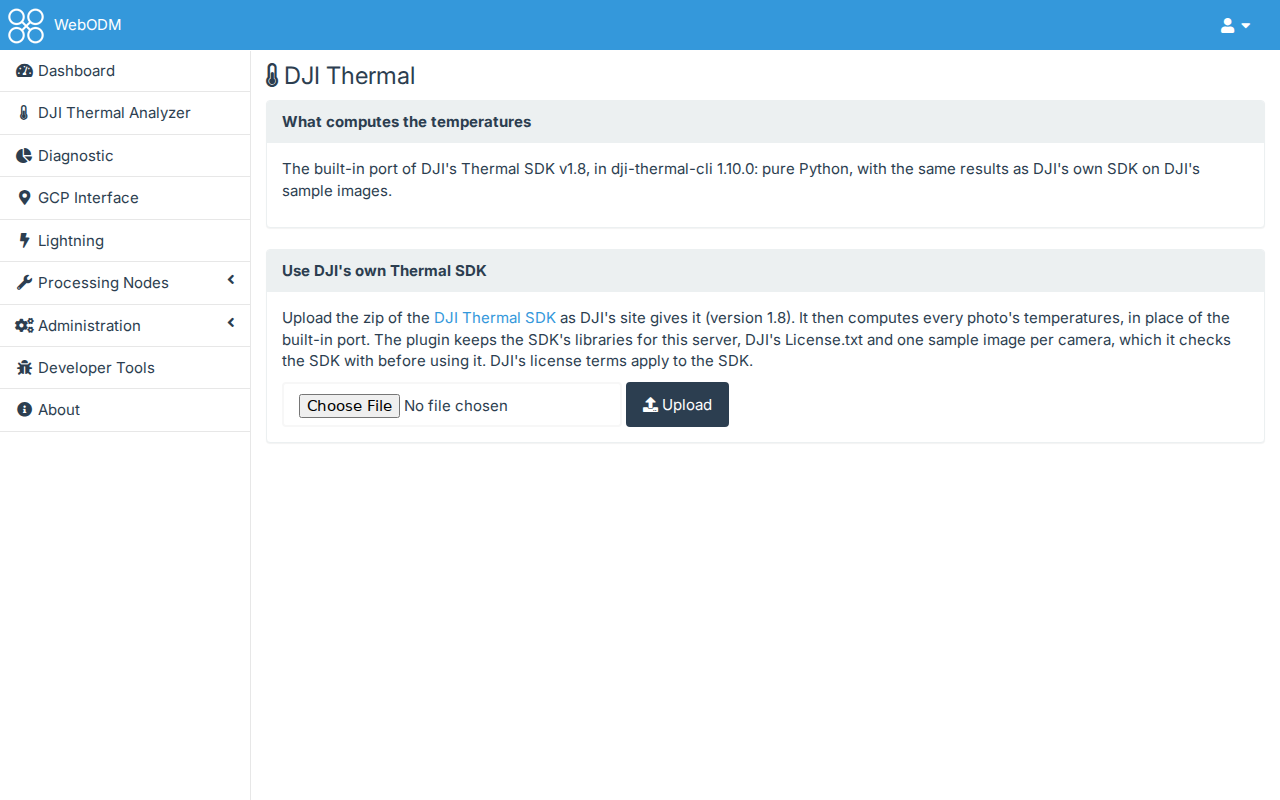
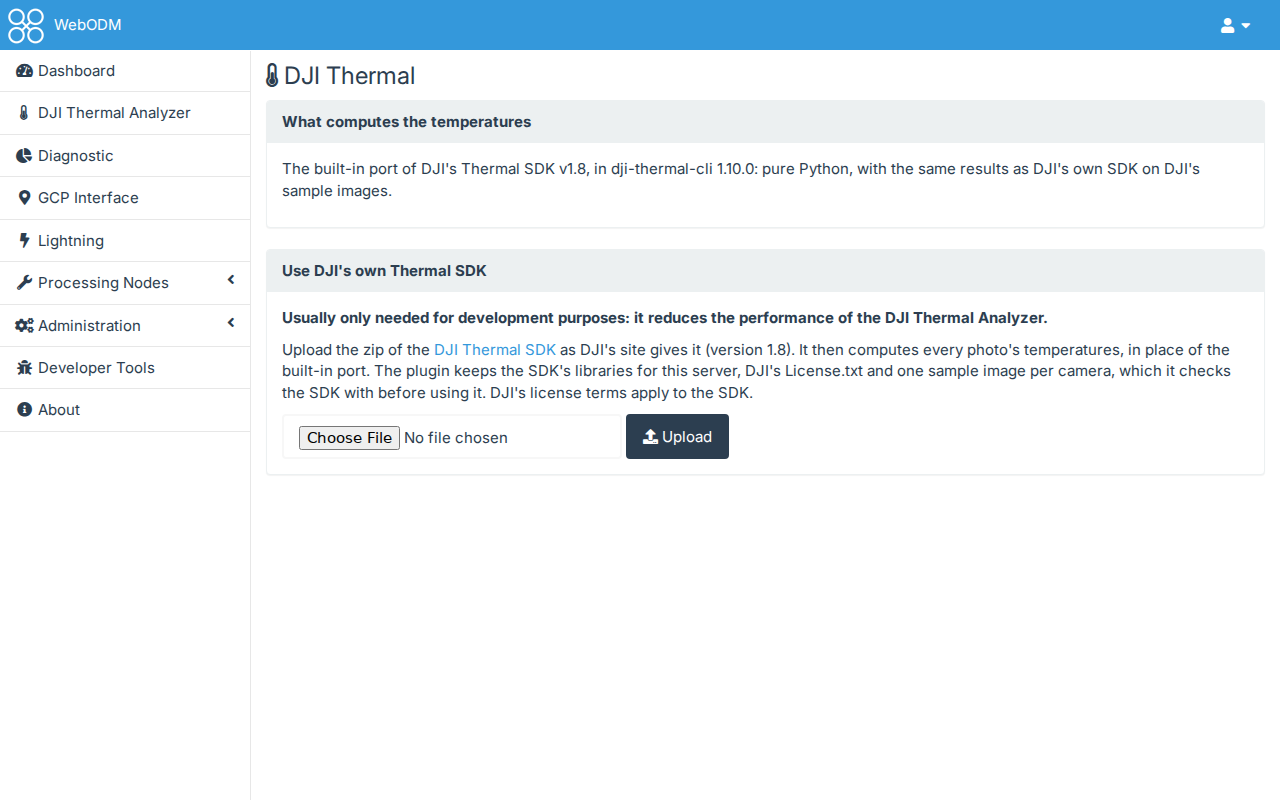
The SDK panel says in bold DJI's own SDK is usually only for development and slows the Analyzer

Changed region(s): [[0.2188, 0.375, 0.9688, 0.5938]]

diff --git a/dji-thermal/templates/sdk.html b/dji-thermal/templates/sdk.html
@@ -30,6 +30,7 @@
 <div class="panel panel-default">
     <div class="panel-heading"><strong>{% if status.folder %}{% trans "Update DJI's Thermal SDK" %}{% else %}{% trans "Use DJI's own Thermal SDK" %}{% endif %}</strong></div>
     <div class="panel-body">
+        <p id="dji-thermal-sdk-note"><strong>{% trans "Usually only needed for development purposes: it reduces the performance of the DJI Thermal Analyzer." %}</strong></p>
         <p>{% blocktrans %}Upload the zip of the <a href="https://www.dji.com/downloads/softwares/dji-thermal-sdk" target="_blank" rel="noopener">DJI Thermal SDK</a> as DJI's site gives it (version 1.8). It then computes every photo's temperatures, in place of the built-in port. The plugin keeps the SDK's libraries for this server, DJI's License.txt and one sample image per camera, which it checks the SDK with before using it. DJI's license terms apply to the SDK.{% endblocktrans %}</p>
         {% if status.deploy_dir %}
         <p>{% blocktrans with folder=status.deploy_dir %}The deployment sets {{ env }}={{ folder }}: the SDK is installed there, replacing the one in it.{% endblocktrans %}</p>

diff --git a/upcoming-changes.md b/upcoming-changes.md
@@ -7,9 +7,9 @@
   Thermal SDK\"; add a note in bold that it's usually only needed for development purposes reduces the performance
   of the DJI Thermal Analyzer." Builds on the DJI Thermal page under Administration (`templates/sdk.html`, the
   "Use DJI's own Thermal SDK" panel, shown before an SDK is installed; titled "Update DJI's Thermal SDK" after).
-  Proposed: one bold sentence at the top of that panel; the speed claim measured first (the same frames through
-  the built-in port and through DJI's SDK, in the dev stack), and worded by what the measurement shows. README and
-  `docs/dji-sdk.md` say the same; its screenshot retaken.
+  Decided (the user, 2026-11-02): their wording as is, not measured first. Done, `sdk-settings-note`: in bold at the
+  top of that panel (shown with an SDK installed too), "Usually only needed for development purposes: it reduces
+  the performance of the DJI Thermal Analyzer." README, `docs/dji-sdk.md`, `dji-sdk.png` retaken.
 - **Workflow walk-through for bugs and hangs** (the user, 2026-11-02, from `new.md`): "walk through the workflows for
   creating datasets, worksets and tasks. Look for bugs and places where it could hang unexpectedly for the user
   etc... Fix anything minor as you go but note anything larger to be a planned effort." Builds on the Thermal
@@ -20,13 +20,17 @@
   task, delete; each step's waits, polls, progress and error paths read in the code too (what happens when the
   worker is down or restarted, a job dies, a request fails). Minor fixes each on its own branch with a test; larger
   ones written here as phases. What it created is deleted afterwards.
+  Decided (the user, 2026-11-02): **the whole M4T flight** (thermal and RGB); **everything it creates deleted**
+  afterwards; **all three flows**: the Thermal Analyzer, DJI Thermal Task (the dashboard's button, its dialog and
+  converted task), and the mosaic viewer and frame page.
 - **UX review of the same workflows** (the user, 2026-11-02, from `new.md`): "As a UX design expert, walk through
   the workflows for creating datasets, worksets and tasks. Look for cumbersome and unintuitive design experiences
   that should be improved upon. Create a Claude Artifact with your findings for us to review after." Builds on the
   earlier UX review (2026-10-31, "Done: UX review" below) and everything since. Proposed: the same walk-through as a
   first-time user; findings ranked, each with where (page and panel), what is cumbersome, the proposal and a
   screenshot (no location or serial shown), sorted into quick fixes and larger changes; published as a private
-  Artifact for the user to review; nothing changed until they choose.
+  Artifact for the user to review; nothing changed until they choose. Decided (the user, 2026-11-02): as the walk-through's (the whole
+  flight, deleted afterwards, the same three flows).
 - **The user's testing and polishing** (2026-10-30): bugs and polish they report go here, each fixed on its own
   branch. Publishing 1.0.0 waits for it.
   - Done: **removing files from a dataset** (the user, 2026-11-02: "For the Files view under dataset we should add the

diff --git a/README.md b/README.md
@@ -402,7 +402,8 @@ themselves are not kept.
 
 By default the temperatures come from dji-thermal-cli's built-in port of DJI's Thermal SDK v1.8, which gives the
 same results as DJI's own SDK on DJI's sample images. If you prefer DJI's own library, it can compute every
-photo's temperatures instead. The **DJI Thermal** page, under **Administration** in WebODM's menu (for
+photo's temperatures instead. **It is usually only needed for development purposes: it reduces the performance of
+the DJI Thermal Analyzer.** The **DJI Thermal** page, under **Administration** in WebODM's menu (for
 superusers only), shows which of the two is in use and changes it:
 
 - **Upload** the [DJI Thermal SDK](https://www.dji.com/downloads/softwares/dji-thermal-sdk) zip as DJI's site gives

diff --git a/docs/dji-sdk.md b/docs/dji-sdk.md
@@ -4,6 +4,9 @@ By default, temperatures come from dji-thermal-cli's built-in port of DJI's Ther
 results as DJI's own SDK on DJI's sample images. If you prefer DJI's own library, an administrator can have it
 compute every photo's temperatures instead.
 
+**DJI's own SDK is usually only needed for development purposes: it reduces the performance of the DJI Thermal
+Analyzer.**
+
 ## The DJI Thermal page
 
 **Administration > DJI Thermal**, in WebODM's menu (superusers only), shows which of the two is in use.
